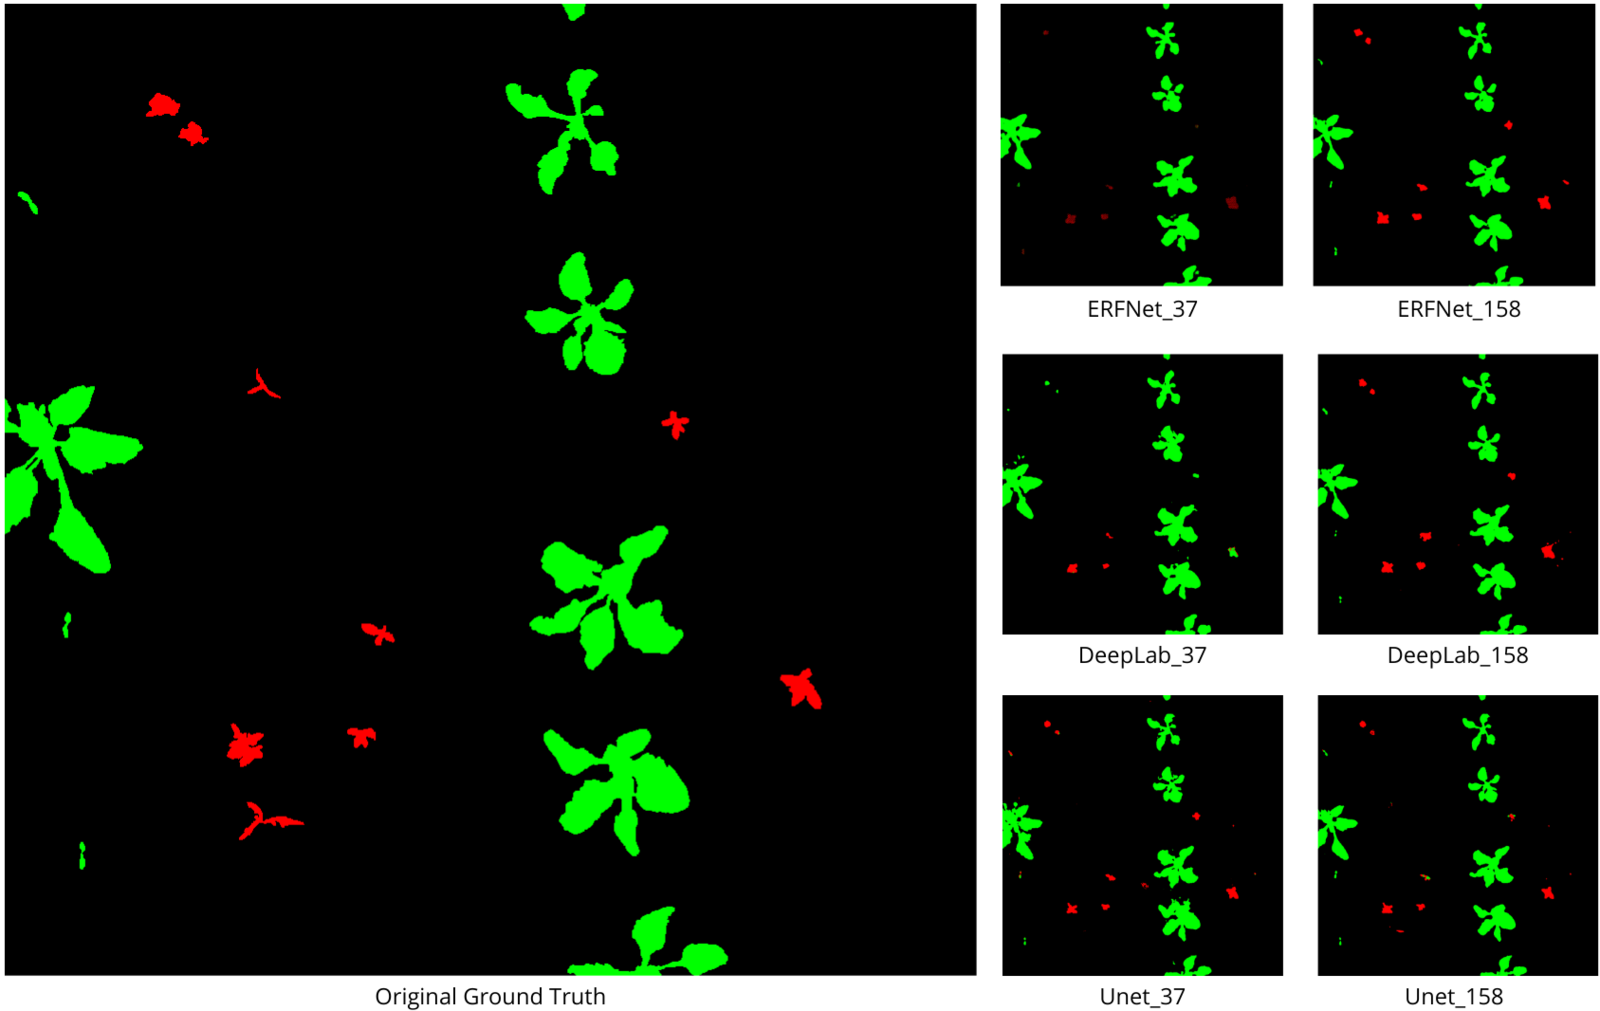
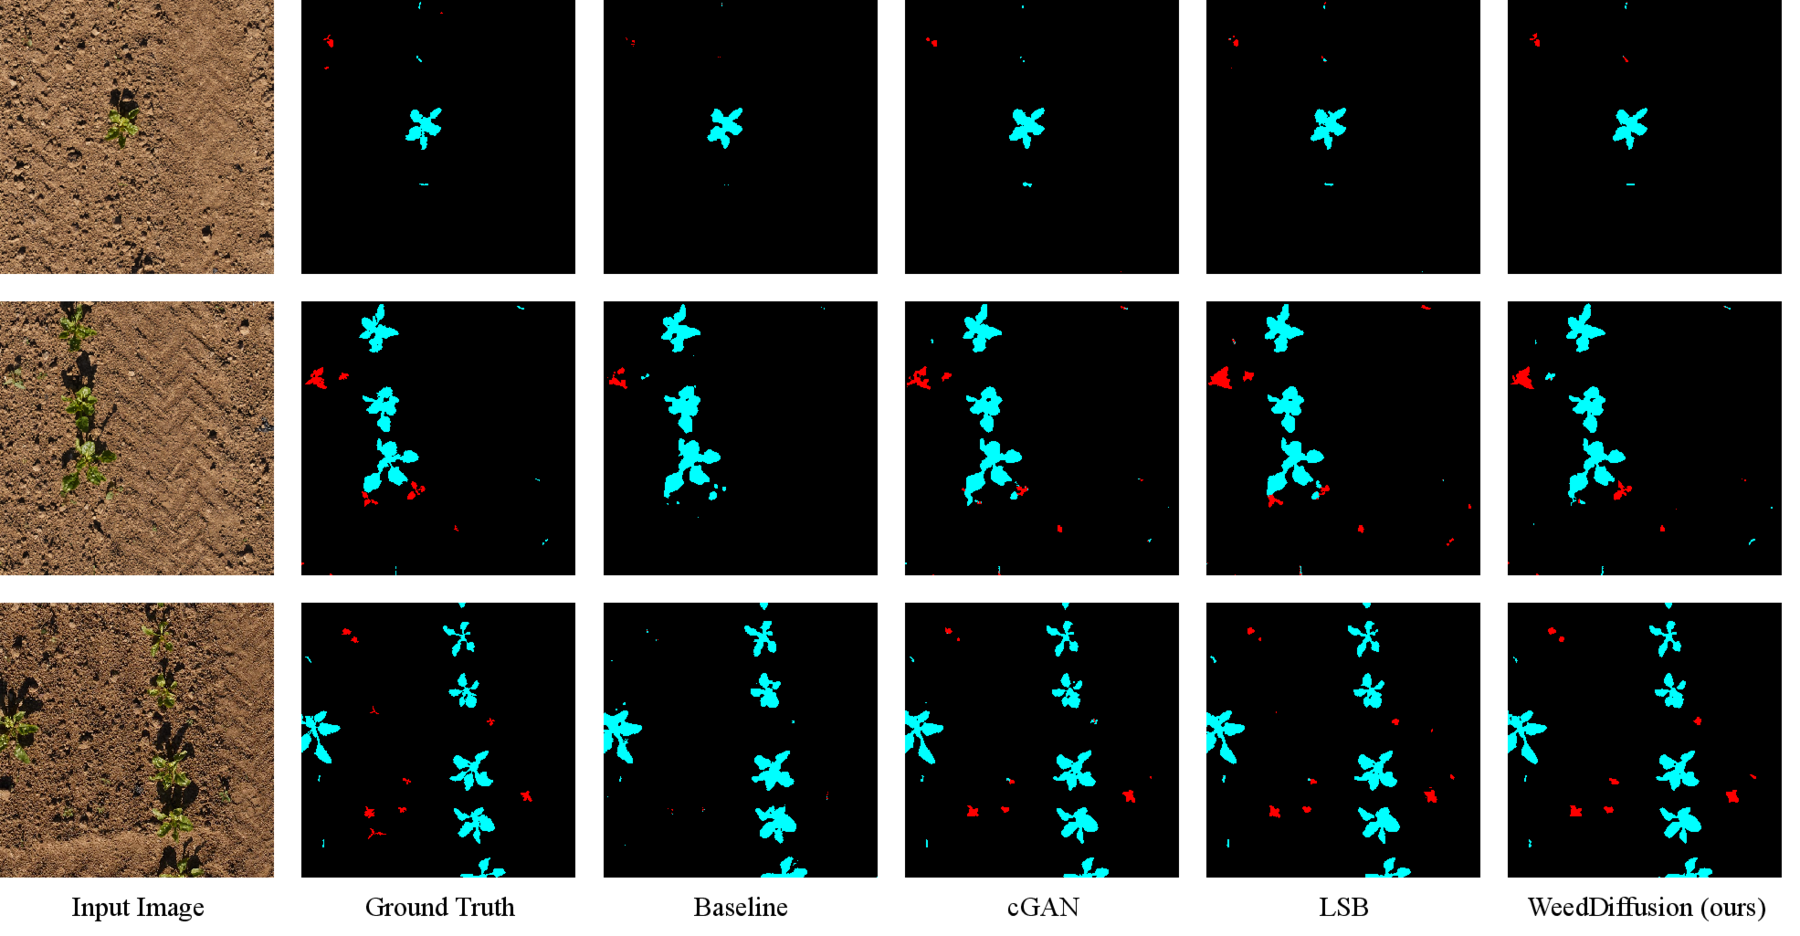
Use paper qualitative figures; drop arXiv button
- Replace homemade step-by-step strip with paper crop-inpainting examples figure
- Upgrade predictions figure to high-res render from paper PDF
- Remove arXiv button (paper has no arXiv)

Claude-Session: https://claude.ai/code/session_01YWw8fmGnvynxbf4n5iiDX6

diff --git a/index.html b/index.html
@@ -86,9 +86,6 @@
         <a class="button link-btn" href="#">
           <span class="icon"><i class="fas fa-file-pdf"></i></span><span>Paper</span>
         </a>
-        <a class="button link-btn" href="#">
-          <span class="icon"><i class="ai ai-arxiv"></i></span><span>arXiv</span>
-        </a>
         <a class="button link-btn" href="https://github.com/pasqualedem/WeedDiffusion" target="_blank">
           <span class="icon"><i class="fab fa-github"></i></span><span>Code</span>
         </a>
@@ -173,41 +170,19 @@
 
 <hr class="soft">
 
-<!-- ===================== PIPELINE EXAMPLE ===================== -->
+<!-- ===================== QUALITATIVE: CROP INPAINTING ===================== -->
 <section class="section">
-  <div class="container is-max-desktop">
-    <h2 class="title is-3 has-text-centered accent">Weed Branch, Step by Step</h2>
-    <p class="content-max has-text-centered" style="color:#5a6472; margin-bottom:1.4rem;">
-      A single instance flowing through the full pipeline — same image throughout, mask reconstructed at each stage.
-    </p>
-    <div class="content-max">
-      <div class="stage-grid">
-        <figure class="stage">
-          <img src="static/images/ex_original.png" alt="original image">
-          <figcaption><span class="num">1</span>Original field image</figcaption>
-        </figure>
-        <figure class="stage">
-          <img src="static/images/ex_inpainted.png" alt="inpainted image">
-          <figcaption><span class="num">2</span>Crop-inpainted image</figcaption>
-        </figure>
-        <figure class="stage">
-          <img src="static/images/ex_weed_bg.png" alt="generated weed">
-          <figcaption><span class="num">3</span>DreamBooth-generated weed</figcaption>
-        </figure>
-        <figure class="stage">
-          <img src="static/images/ex_weed_seg.png" alt="SAM-segmented weed">
-          <figcaption><span class="num">4</span>SAM-segmented weed</figcaption>
-        </figure>
-        <figure class="stage">
-          <img src="static/images/ex_final.png" alt="final augmented image">
-          <figcaption><span class="num">5</span>Final augmented image</figcaption>
-        </figure>
-        <figure class="stage">
-          <img src="static/images/ex_final_mask.png" alt="reconstructed semantic mask">
-          <figcaption><span class="num">6</span>Reconstructed mask (crop / weed)</figcaption>
-        </figure>
-      </div>
-    </div>
+  <div class="container is-max-desktop has-text-centered">
+    <h2 class="title is-3 accent">Crop Inpainting Examples</h2>
+    <figure>
+      <img src="static/images/examples.png" alt="Crop inpainting qualitative examples" style="border-radius:10px; border:1px solid #e6e9ee;">
+      <figcaption class="figure-caption content-max">
+        Two examples of the inpainting-based crop augmentation. <b>Top row:</b> original field image, the masked
+        region (red overlay) to be inpainted, and the inpainted result. <b>Bottom row:</b> the corresponding ground
+        truths, with <b>cyan</b> = crop and <b>red</b> = weed. The inpainted crops blend seamlessly into the scene
+        while the semantic mask is updated to stay label-consistent.
+      </figcaption>
+    </figure>
   </div>
 </section>
 
